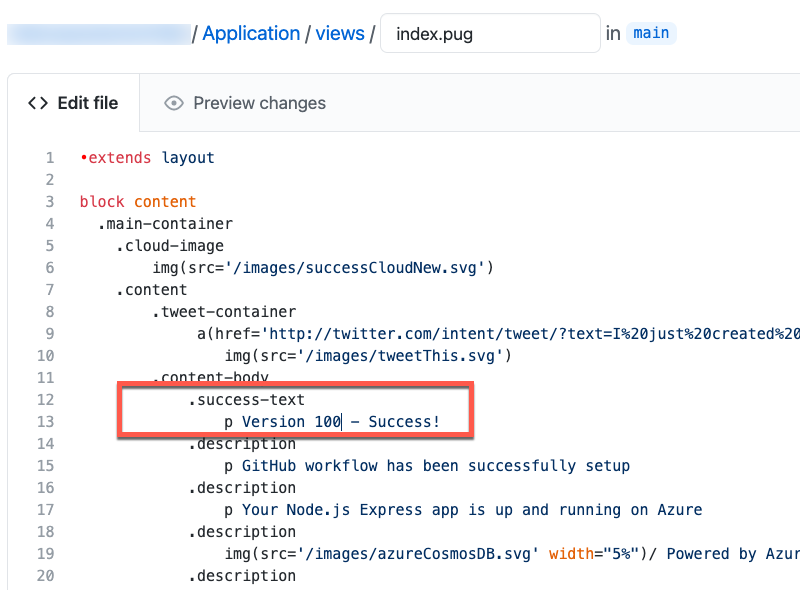
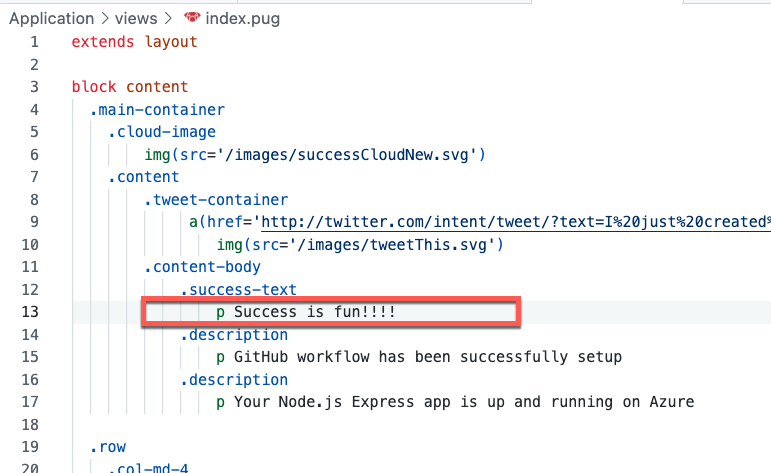
V2 (#1)
* updated the GH auth workflow

* Readme updates; new image for auth

* v2 mods

* minor update

* minor edits

* minor update

* minor edit

* minor change

* minor change

* minor change

diff --git a/README.md b/README.md
@@ -1,7 +1,9 @@
 # Azure Dev Day Lab for GitHub DevOps
-Located here: <https://github.com/jimblizzard/azure-dev-day-github-devops-lab>
+Located here: <https://github.com/jimblizzarddemos/azure-dev-day-github-devops-lab>
 
-In this lab we're going to see how easy it is to create a functional Azure Web App with its source code stored in GitHub and a GitHub CICD workflow that builds and deploys the web app. . . in just a matter of minutes.
+In this lab we're going to see how easy it is to create a functional Azure Web App with its source code stored in GitHub and a GitHub CI/CD workflow that builds and deploys the web app. . . in just a matter of minutes.
+
+*Note: in this repo (https://github.com/jimblizzarddemos/azure-dev-day-github-devops-lab) there is a **lab-code-snippets.yml** file that you can use to copy / paste updates into your repository's workflow file instead of having to manually type the the updates.*
 ## Create DevOps Starter project in Azure
 
 1. Open a browser and sign into the Microsoft Azure Portal at <https://portal.azure.com>
@@ -26,6 +28,8 @@ In this lab we're going to see how easy it is to create a functional Azure Web A
 
     1. Click **Authorize** to allow Azure to access your GitHub account & create the workflow.
         ![DevOps Starter Create](./images/devops-starter-7.png)
+    1. If prompted, enter your GitHub username or email address, and password, then click **Sign in**.
+        ![DevOps Starter Create](./images/devops-starter-7-1.png)
     1. Enter your GitHub Organization, Repository, Azure SubScription, Web app name, and Location. 
     1. Click **Review + Create**
         ![DevOps Starter Create](./images/devops-starter-8.png)
@@ -48,7 +52,7 @@ In this lab we're going to see how easy it is to create a functional Azure Web A
     ![deployment slots](./images/deployment-slots-1.png)
     1. Click on **Deployment slots**
     1. Click on **+ Add Slot**  
-    1. Name the slot **"pre-prod"** NOTE: You'll use the slot name later on when you update your CICD pipeline.
+    1. Name the slot **"pre-prod"** NOTE: You'll use the slot name later on when you update your CI/CD pipeline.
     1. Choose Clone settings from: **{your production slot name}**
     1. Click **Add**.
     1. It will take a minute or so to create the pre-prod slot. Once it finishes, click **Close** at the boottom of that window.
@@ -62,67 +66,62 @@ In this lab we're going to see how easy it is to create a functional Azure Web A
 1. **Open a new tab** and go to your GitHub account. https://github.com/{your-gh-account}
 1. Click on **Repositories** to view your repositories. 
     ![repositories](./images/repositories-1.png)
-1. Open the repository that the DevOps Starter created for you by clicking on its name. It's name is the same as the name of the App Service you created. 
-    ![open your repo](./images/open-your-repo.png)
-1. Open the CICD workflow. 
+1. Navigate to the repository that the DevOps Starter created for you by clicking on its name. It's name is the same as the name of the App Service you created. 
+    ![navigate to your repo](./images/open-your-repo.png)
+1. While on the **<> Code** tab, open the lightweight web editor in GitHub by pressing the **period key** on your keybaord, then open the devops-starter-workflow.yml file
     1. Click on **.github/workflows** 
-    ![open .github workflows](./images/open-github-workflows.png)
-    1. On the page that opens up, Click on **devops-starter-workflow.yml** to see the CICD pipeline that was created by the DevOps Starter project. 
+    1. Click on **devops-starter-workflow.yml** to see the CI/CD pipeline that was created by the DevOps Starter project.
     ![Open yaml workflow](./images/open-workflow-1.png)
 
     The workflow contains three jobs. **build**, **Deploy**, and **FunctionalTests**. We're going to update the workflow to add a slot swap action.
 
-1. Enter edit mode by clicking on the **pencil icon** at the top right of the file listing. 
-    ![Enter edit mode](./images/click-on-pencil.png)
-1. Add an environment variable called **SLOT_NAME:** with the value of **"pre-prod"**. Be sure to indent the variable the same as the other enviromnent variables.
-    ![Add SLOT_NAME environment variable](./images/add-slot-env-var.png)
-1. Modify the web app deploy action to deploy to the pre-prod slot instead of the production slot. (It should be on line 123 or so.)
-    1. Change the comment to **Deploy web app to pre-prod slot**
-    1. Change the name of the action to **'Deploy to Azure WebApp pre-prod slot'**
-    1. After the **package:** attribute, add a blank line and type **slot-name: ${{ env.SLOT_NAME }}** (Be sure the slot-name: attribute is indented the same as the package: attribute.)
-    ![Deploy to slot](./images/change-deploy-to-slot.png)
-1. Update the **Run Functional Tests** action to run against the **pre-prod** slot, by adding the new environment variable to the website's URL. *Don't forget to include a dash between the web app name and the slot name so it looks similar to this:*
+1. Add an environment variable called **SLOT_NAME:** with the value of **"pre-prod"** by pasting **Snippet 1** from the **lab-code-snippets.yml** file. Be sure the variable is indented the same as the other enviromnent variables.
+    ![Add SLOT_NAME environment variable](./images/snippet-1.png)
+1. Modify the **web app deploy action** so it deploys to the pre-prod slot instead of the production slot.
+    1. Replace the entire **Deploy web app on azure** action (lines 123 through 128) by pasting **Snippet 2** from the snippets file. After pasting the snippet, make sure the columns are indented similar to other actions as shown in the image below.
+    ![Deploy to slot](./images/deploy-to-slot.png)
+1. Modify the **Run Functional Tests** action to run against the **pre-prod** slot.
+    1. Replace the entire **Run functional tests** action (lines 144 through 152 or thereabouts) by pasting **Snippet 3** from the snippets file.  After pasting the snippet, make sure the columns are indented similar to other actions as shown in the image below.
     ![Change functional test to test the slot](./images/functional-test-against-slot.png)
-
+    1. Notice that the environment variable for the pre-prod slot has been added to the URL. 
 ## Commit the changes and watch the updated workflow run
 
-1. In the upper right of the page, 1) click on **Start commit**, 2) enter a commit message, and 3) click on **commit changes**. Note that your workflow will immediately start running since it's configured to run anytime anything is pushed to the master branch.
+1. Save the changes to the devops-starter-workflow.yml file.
+1. Click on the **source control icon** (1) then click the **plus sign** (2) to stage the changes you've made. Click in the **Message** box (3) and type a commit message. Then click on the **check mark** (4) to commit the change to the master branch. Your workflow will immediately start running since it's configured to run anytime anything is pushed to the master branch.
+    ![Commit changes](./images/commit-changes-1.png)
+1. Return to the traditional GitHub UI by....  (1) In the address bar in your browser, (2) change the "dev" in the URL to "com" and then (3) press enter.
 
-    ![Commit changes](./images/commit-changes.png)
+    ![Back to GitHub UI](./images/back-to-gh-ui.png)
+1. Click on Actions to go to the Actions tab, then click on the latest workflow to watch it run / view the results. It will take several minutes to complete. Note: In this view, the workflow run name will be whatever you typed for your commit message ("deploy and test pre-prod slot" in this case).
+    ![Click on Actions](./images/click-actions-1.png)
+    ![Click on the workflow instance](./images/look-at-workflow-results.png)
+1. You'll see the current state of the three jobs that are in the workflow. You can click on each job name within the run to see the log messages for it. (If the job is still running you'll be able to see the log messages update in real time.)
+    ![Successful workflow run](./images/successful-workflow-run-1.png)
 
-1. Click on **Actions** to see the workflow runs.
-    ![Open Actions](./images/open-actions.png)
-
-1. Click on the latest workflow to see it running. It will take several minutes to complete. Note: In this view, the workflow will be whatever you typed for your commit message. 
-    ![Open workflow run](./images/open-workflow-run.png)
-1. You'll see the current state of the three jobs that are in the workflow.
-    ![In progress workflow](./images/in-progress-workflow.png)
-
-    You can click on each job name within the run to see the log messages for it.
-    ![Looking at workflow logs](./images/looking-at-workflow-logs.png)
-
-1. Once the workflow completes, switch back to the Azure Portal tab and from the Deployment slots view, click on the pre-prod slot link, then click on the URL for the pre-prod website. 
+1. Once the workflow completes, switch back to the Azure Portal tab and from the Deployment slots view, click on the **pre-prod** slot link, then click on the URL for the pre-prod website.
 
     You should see the Success message on the pre-prod site.  
 
     ![Working slot](./images/working-slot.png)
 ## Extra credit
-Update the workflow to do a slot swap, to swap the production and pre-prod slots, then make a change to the website. Basic outline: 
+Update the workflow to do a slot swap, and swap the production and pre-prod slots, then in the source code make a change to the website. Here's the basic outline:
 
+1. Remember: to return to the lightweight web-based editor in GitHub, make sure you're on the **<> Code** tab, then press the **period key** on your keyboard. (You could also replace ".com" in the URL with ".dev" and vice-versa to switch views.)
 1. Add new job to the end of the workflow. Be sure to add "needs: FunctionalTests" to make sure it runs after the FunctionalTests job completes. 
 1. Add a login to Azure action
 1. Add a swap slots action (you'll need to use the Azure CLI to run the command). 
 
-    The newly added job should look similar to this:
+    The newly added job should look similar to this (remember -- in **.yml** files, **column alignment is crucial**):
 
     ![Swap Slots Job](./images/swap-slots.png)
 
-1. Comment out the ARM Template deploy action. (If you don't do this, your pipeline will fail.)
-    ![DevOps Starter Create](./images/comment-the-arm-template-deploy-action.png)
+1. **Important:** Comment out the ARM Template deploy action by typing a pound sign (#) at the beginning of each line. If you don't do this, your pipeline will fail. (Remember when we added the deployment slot using the Azure portal? The ARM template in our GitHub repo doesn't have that change, and re-deploying the ARM template will remove the slot, and the workflow will fail when it tries to deploy to the slot.) 
+    ![Comment out the arm template depoloy](./images/comment-the-arm-template-deploy-action.png)
 
-1. In the file **Application/views/index.pug** change the **.success-text** message to something such as **p Version 100 - Success!!**
+1. In the file **Application/views/index.pug** change the **.success-text** message to something such as **p Success is fun!!!!**
 
     ![Modify success text](./images/modify-success-text.png)
 1. Commit the changes.
 1. Watch the workflow run.
-1. Once the workflow completes, check the pre-prod website and the production website. The production website should have the new version message, and the pre-prod slot will have the old message. 
+1. Once the workflow completes, check the pre-prod website and the production website. The pre-prod website should have the old success message, and the production slot will have the new "Success is fun!!!!" message.
+    ![Production success message](./images/success-is-fun.png)
